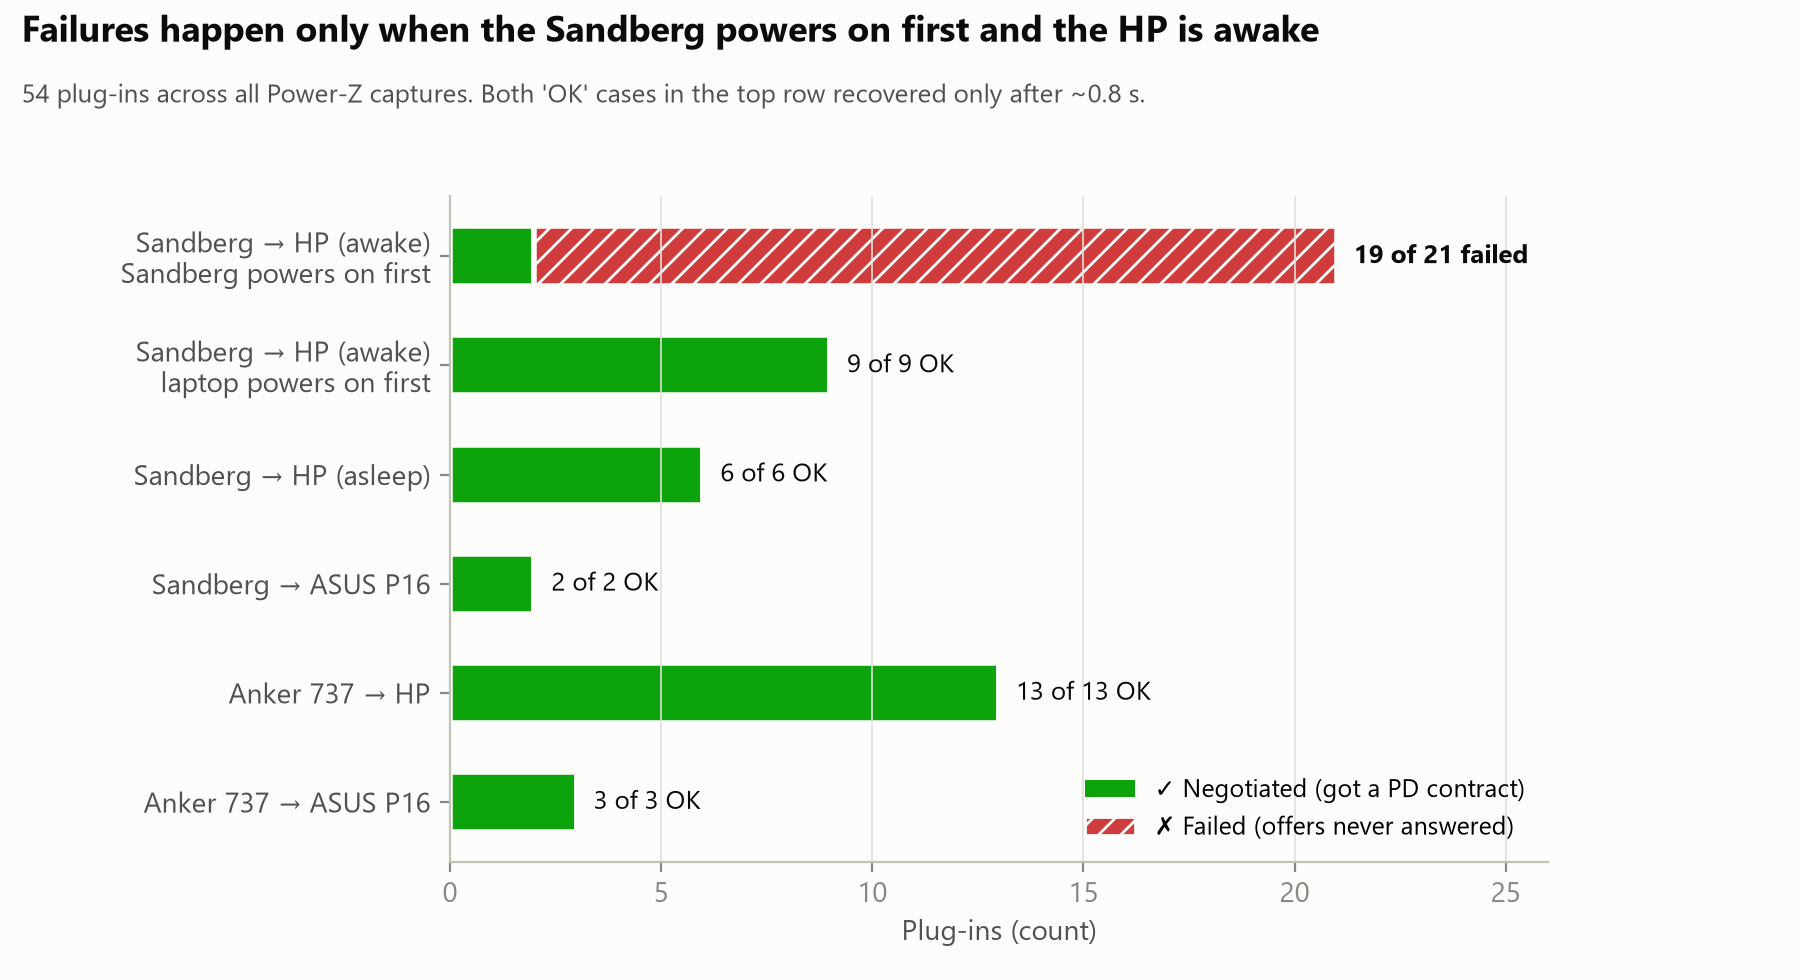
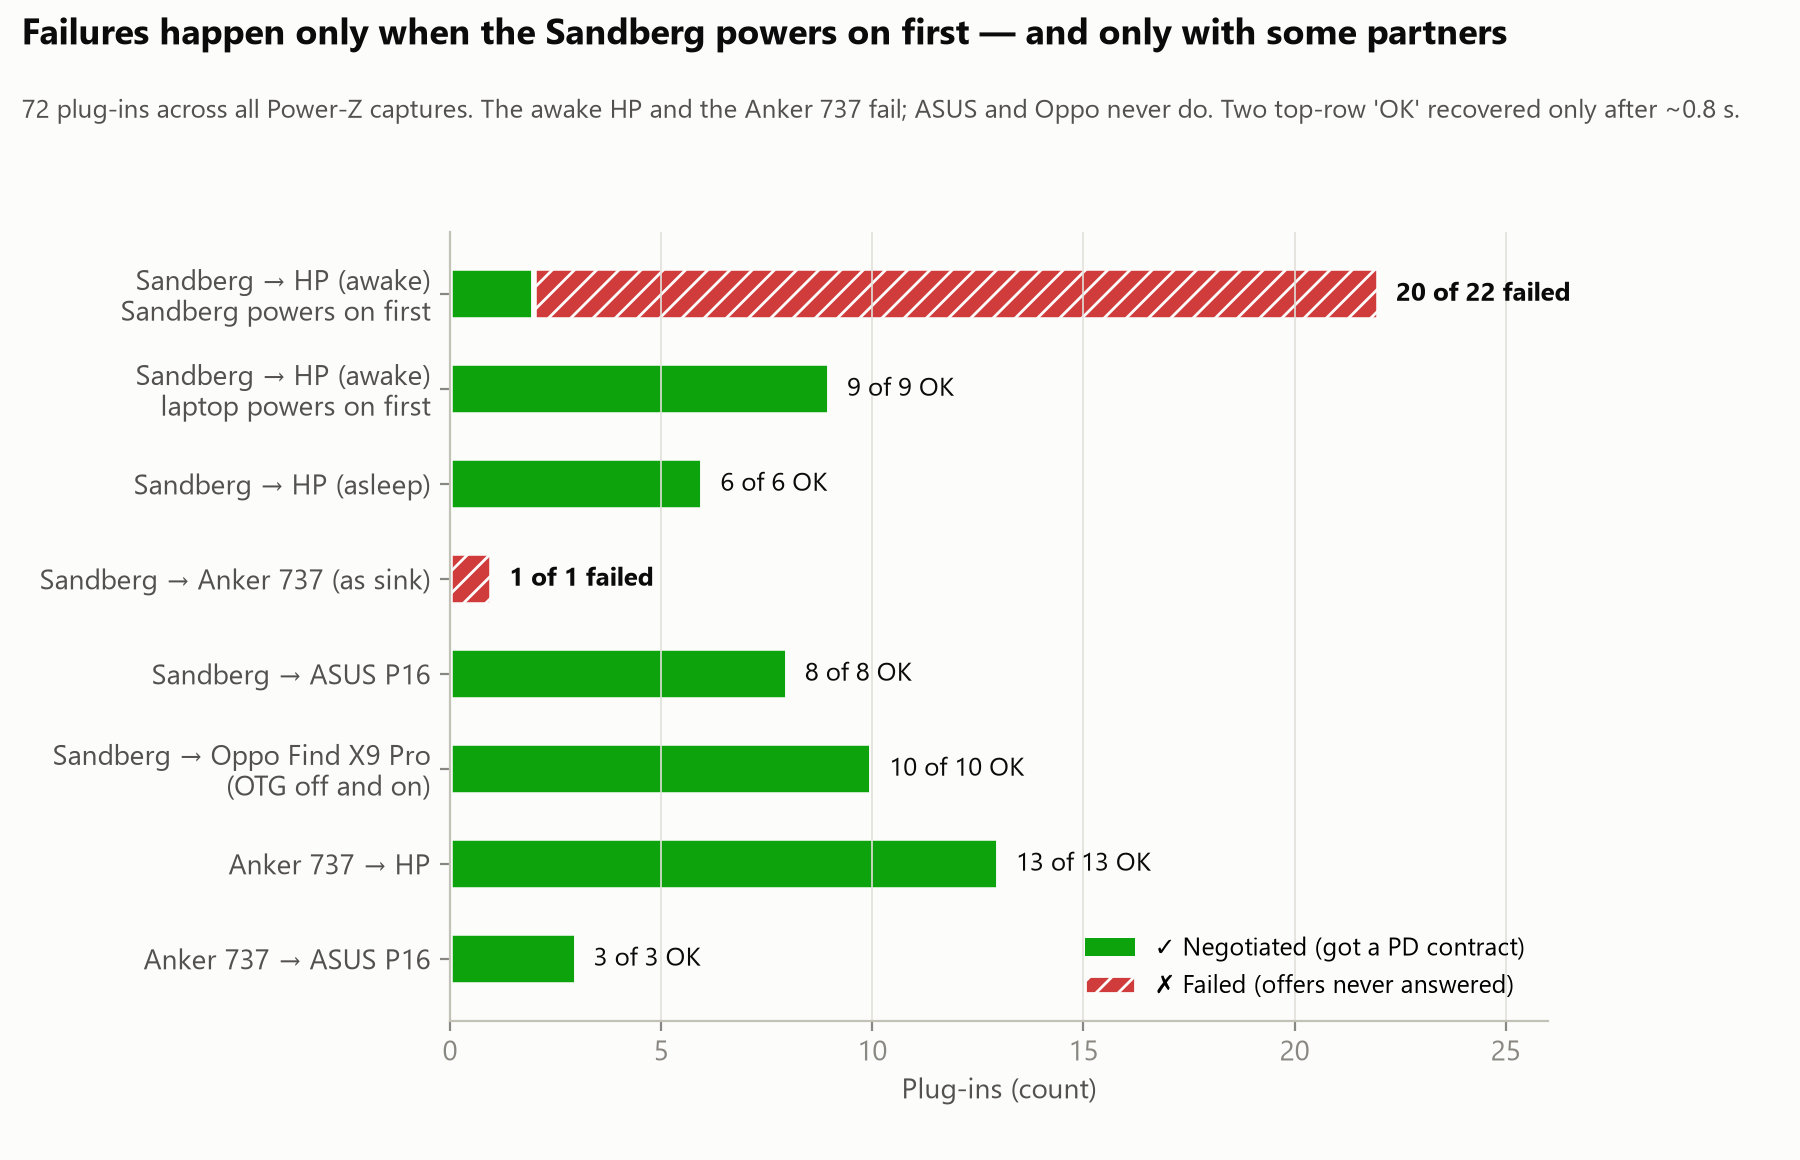
More changes to Investigation doc

diff --git a/PD_Investigation_Findings.md b/PD_Investigation_Findings.md
@@ -8,7 +8,7 @@
 1. [Summary](#1-summary)
 2. [Devices and cables](#2-devices-and-cables)
 3. [Capture index](#3-capture-index)
-4. [Finding A: intermittent negotiation failure (HP + Sandberg)](#4-finding-a-intermittent-negotiation-failure-hp--sandberg)
+4. [Finding A: intermittent negotiation failure (Sandberg + some sinks)](#4-finding-a-intermittent-negotiation-failure-sandberg--some-sinks)
 5. [Finding B: Sandberg C1 never offers more than 60 W](#5-finding-b-sandberg-c1-never-offers-more-than-60-w)
 6. [Finding C: other protocol quirks](#6-finding-c-other-protocol-quirks)
 7. [Timing and power measurements](#7-timing-and-power-measurements)
@@ -24,7 +24,7 @@ There are **two independent problems** with the Sandberg powerbank:
 
 | # | Problem | Most likely cause | Confidence |
 |---|---|---|---|
-| **A** | The HP laptop sometimes never answers the Sandberg's power offers. The Sandberg sends 50 offers (about 8.6 s), gives up and stays at 5 V with no charging | An interaction: the **HP (awake, dual-role) gets stuck** when 5 V arrives late, and the **Sandberg switches 5 V on slowly (300–440 ms)** when it starts as a fixed source | Hypothesis, strongly supported. A test is pending (section 8) |
+| **A** | When the **Sandberg powers on first**, some sinks never answer its power offers. The Sandberg sends 50 offers (about 8.6 s), gives up and stays at 5 V with no charging | It happens with the **HP (awake)** and the **Anker 737 as a sink**, never with the ASUS, the Oppo or the sleeping HP. Once it happens, the **Sandberg stays stuck even after the sink is unplugged**. Slow 5 V switch-on is **ruled out** as the sole trigger | Pattern confirmed (72 plug-ins). Exact trigger not identified |
 | **B** | The Sandberg's "100 W" port (C1) only ever offers **20 V 3 A = 60 W** | The Sandberg **never supplies VCONN**, so it can't read the cable's e-marker. Under the PD spec it must then cap at 3 A | **Confirmed by measurement** |
 
 A **third mode, on the C2 (27 W) port only**, was captured as well. The Sandberg doesn't run PD at all and outputs about 4.6 V, and the laptop falls back to slow 5 V charging (section 4.5).
@@ -89,10 +89,15 @@ All three cables answer cable-identity requests correctly whenever the requester
 | `F0KYM-HTN1-533/Sandberg3Fails1OK_PowerZ_at_C1pd.sqlite` | **Power-Z at Sandberg C1**, HP cable | Awake | 3 FAIL, 1 OK |
 | `F0KYM-HTN1-533/Sandberg3Fails1OK_PowerZ_at_C1_WorstSoFar_27Wpd.sqlite` | Power-Z at **Sandberg C2 (27 W)**, HP cable | Awake | **No PD at all.** The Sandberg outputs about 4.6 V, the laptop's 3 Hard Resets are ignored, the laptop falls back to 5 V (max 13.9 W) and re-attaches every ~10 s (section 4.5) |
 | `F0KYM-HTN1-533/Sanberg_several_retries15s_AnkerOKpd.sqlite` | Power-Z at Sandberg C1, HP cable. Laptop side unplugged, **15 s wait** before each replug. Then Anker 737 | Awake | **Sandberg 4 of 4 FAIL** (all Sandberg-first). Anker OK (laptop-first, PR_Swap, 5 A) |
+| `F0KYM-HTN1-533/HPEliteBookT2-testpd.sqlite` | **T2**: Power-Z at C1, HP cable, 15 s wait | Awake | First plug-in FAIL. The Sandberg then **stays stuck for 2 minutes** through 4 replugs (section 4.3) |
+| `F0KYM-HTN1-533/ASUSProArtP16T4-testpd.sqlite` | **T4**: Sandberg → ASUS, 15 s wait | Awake | **6 of 6 OK**, all Sandberg-first, 20 V 3 A, 55 W |
+| `F0KYM-HTN1-533/Sandberg_Charging_Anker737_T5-testpd.sqlite` | **T5**: Sandberg → Anker 737 (as sink), 15 s wait | — | First plug-in FAIL. Same stuck state as the HP, persisting through 4 replugs |
+| `F0KYM-HTN1-533/Oppo_T7-OTG-offpd.sqlite` | **T7**: Sandberg → Oppo Find X9 Pro, OTG off | — | **5 of 5 OK**. Uses the Sandberg's **PPS** (about 8.5 V 3 A, up to 26 W) |
+| `F0KYM-HTN1-533/Oppo_T7-OTG-onpd.sqlite` | **T7**: same, OTG on | — | **5 of 5 OK**. Fixed 9 V 1.5–2 A |
 
 ---
 
-## 4. Finding A: intermittent negotiation failure (HP + Sandberg)
+## 4. Finding A: intermittent negotiation failure (Sandberg + some sinks)
 
 ### 4.1 What a failure looks like
 
@@ -148,27 +153,58 @@ Both devices are **dual-role (DRP)**: each can supply or take power, and while u
 - If the cable is unplugged at the Sandberg for more than 7 s, the outcome is **always Sandberg-first, so always fail**.
 - If the cable stays attached, it's a random race.
 
-**Control observations:**
-- The **Anker 737** never triggers the stuck state. It switches 5 V on 26–46 ms after attach, in either role order.
-- The **ASUS ProArt P16**, also a dual-role laptop that cycles while awake, worked with the Sandberg as a fixed source **even with a 450 ms switch-on delay**. That's one data point so far.
-- **Below 30%:** plug-ins about 15 s apart meant the Sandberg was always fixed as source, so 5 of 6 failed.
+**Other partners, with the Sandberg forced to power on first (tests T2–T7):**
+
+| Sink | Sandberg-first plug-ins | Result | Sandberg 5 V switch-on delay |
+|---|---|---|---|
+| HP EliteBook (awake) | 22 (all captures) | **20 FAIL**, 2 late OK | 179–521 ms |
+| **Anker 737 as sink** | 1 | **FAIL**, same signature (CC 1.98 V / 0.88 V) | 179 ms |
+| ASUS ProArt P16 (awake) | 8 | **8 OK** | 220–511 ms |
+| Oppo Find X9 Pro, OTG off | 5 | **5 OK** | 179–900 ms |
+| Oppo Find X9 Pro, OTG on | 5 | **5 OK** | 890–900 ms |
+| HP EliteBook (asleep) | 6 | **6 OK** | 199–522 ms |
+
+What this shows:
+- **It isn't HP-specific:** the Anker 737 fails the same way.
+- **It isn't the delay:** the ASUS and the Oppo tolerate equal or much longer delays.
+
+**The Sandberg stays stuck after the sink is unplugged (T2, T5).** After the first failed plug-in, the Sandberg kept **VBUS at 5.14 V for the whole 2-minute capture**. It also held the communication CC line at **about 1.94–1.98 V** and its VCONN pin at **0.86–0.88 V**, even during the 15 s periods with the device unplugged and only the cable attached. A normal source in that situation reads about 3.25 V (an open pull-up), detects the detach and switches VBUS off, as it did in T4 and T7.
+- Each replug shows a 150 ms dip to about 1.52 V (the new sink's Rd) and then a return to the stuck level.
+- The Sandberg sends **no new offers after a replug**.
+- Only unplugging the cable **from the Sandberg itself** clears it.
+
+This means the faulty CC level is produced, at least in part, **by the Sandberg**, not only by the sink.
+
+*Caveat: this assumes the device end was unplugged during the 15 s waits, as in the procedure.*
+
+**Below 30%:** plug-ins about 15 s apart meant the Sandberg was always fixed as source, so 5 of 6 failed.
 
 ### 4.4 Working hypothesis
 
-> The HP EliteBook 840 G11's USB-C port, while awake and cycling as a dual-role port, mishandles **late** VBUS arrival. If the source takes several hundred ms to switch VBUS on after attach (still within the spec, which allows about 475 ms), the HP moves into a source-like state (Rp on both CC pins) and never runs its PD receiver as a sink. The Sandberg is a reliable trigger, because it is slow as a fixed source, it doesn't recover, and it never Hard Resets.
+> **Revised after tests T2–T7.** When the Sandberg powers on first, its CC interface sometimes enters a faulty state at the moment it switches VBUS on:
+> - the communication CC line sits at about **1.95–2.0 V**;
+> - its VCONN pin sits at about **0.86 V**;
+> - no sink acknowledges its PD messages;
+> - it no longer detects detach, so VBUS stays on with nothing attached.
+>
+> Whether it enters this state depends on the partner. The **awake HP** and the **Anker 737** trigger it; the **ASUS**, the **Oppo** and the **sleeping HP** don't.
+>
+> The earlier "HP mishandles late VBUS" idea is **not supported**: the Anker fails too, and the ASUS and Oppo tolerate equal or longer delays.
 
-Supporting:
-- every observed condition fits;
-- the ASUS tolerates the same delay;
-- the HP's own adapter and the Anker are fast.
+Consistent with the data, though not proven:
+- **The partners that trigger it** (HP awake, Anker 737) are devices that also like to be a power source. While awake the HP cycles between offering and taking power, and the Anker as a powerbank is the same. During the Sandberg's attach they may briefly present a source pull-up (Rp), which seems to throw the Sandberg into the faulty state. On the HP side, an Rp was seen on the laptop's VCONN pin during failures (0.55 V).
+- **The faulty levels fit a simple model:** both of the Sandberg's CC pins pulled to about 1.95 V through about 1.3 kΩ, instead of a normal 330 µA Rp. That predicts:
+  - 1.95 V with nothing attached (measured 1.94 V);
+  - about 0.86 V into the cable's Ra (measured 0.86 V);
+  - about 1.55 V with only a sink's Rd (measured 1.52 V at the moment of replug).
 
-Not yet proven:
-- the threshold delay;
-- whether the newer EliteBook a second tester uses is immune because of different firmware or a different PD controller, or because of a different plug-in pattern.
+Not yet known:
+- why the ASUS and the Oppo (even with OTG on) don't trigger it;
+- whether the Sandberg's malformed CC level is also why sinks can't decode its messages.
 
 ![Switch-on delay vs outcome](charts/03_switch_on_delay.png)
 
-*Delay from the laptop settling as a sink to 5 V switch-on, for plug-ins where the powerbank powered on first. The awake HP is the only combination that fails, and only the Sandberg is slow. This is a correlation; tests 8.2 (T4–T7) are meant to separate cause from coincidence.*
+*Delay from the sink settling to 5 V switch-on, for plug-ins where the powerbank powered on first. The ASUS and the Oppo negotiate fine with the Sandberg at the same or longer delays, so the slow switch-on is not the trigger on its own.*
 
 ### 4.5 Second failure mode: the Sandberg's PD engine is silent
 
@@ -194,8 +230,8 @@ after ~9 s the laptop detaches, re-attaches ~3 s later → loop
 ### 4.6 Workarounds
 
 - Plug in while the laptop is **asleep**, then wake it. This is the only reliable workaround: 9 of 9 OK.
-- Keep the cable attached to the Sandberg and replug only at the laptop. Each attempt is then a race the laptop sometimes wins.
-- If it fails, unplug at the laptop and try again.
+- With the cable kept in the Sandberg, replugging at the laptop is a race the laptop sometimes wins. This only works if the previous attempt didn't leave the Sandberg stuck.
+- If it fails, **unplug the cable from the Sandberg** (not just the laptop end): the Sandberg stays stuck otherwise. Then try again.
 
 ---
 
@@ -293,7 +329,7 @@ Searches in English and Nordic languages found **no** reviews or forum reports o
 | Test | Steps | Prediction if the hypothesis is right |
 |---|---|---|
 | T1 | HP awake. Unplug **at the Sandberg**, **wait 2 s**, replug. Repeat 5× | Mixed: OK only when the laptop wins the race to source |
-| T2 | HP awake. Unplug, **wait 15 s**, replug. Repeat 5× | **Done:** 4 of 4 FAIL (unplugged at the laptop side; all Sandberg-first) |
+| T2 | HP awake. Unplug, **wait 15 s**, replug. Repeat 5× | **Done (twice):** 4 of 4 FAIL; then FAIL, after which the Sandberg stayed stuck through 4 replugs |
 | T2b | Like T2, but unplug **at the Sandberg** (forces Sandberg-first) | All FAIL |
 | T3 | Like T2, but with the HP asleep | All OK |
 
@@ -301,10 +337,11 @@ Searches in English and Nordic languages found **no** reviews or forum reports o
 
 | Test | Steps | What it shows |
 |---|---|---|
-| T4 | **ASUS ProArt P16** awake, T2 procedure (wait 15 s) × 5, Power-Z recording | If all OK, a dual-role laptop tolerates the Sandberg's slow switch-on, which points at the HP |
-| T5 | **Sandberg C1 → Anker 737** (Anker as the sink), T2 procedure × 5 | Same question with a dual-role powerbank. Check which device ends up as source |
+| T4 | **ASUS ProArt P16** awake, T2 procedure (wait 15 s) × 5, Power-Z recording | **Done: 6 of 6 OK** (Sandberg-first, 220–511 ms delays) |
+| T5 | **Sandberg C1 → Anker 737** (Anker as the sink), T2 procedure × 5 | **Done: FAIL**, then the Sandberg stayed stuck through 4 replugs. **So it isn't HP-specific** |
+| T5b | Repeat T5 and T2, but unplug **the cable from the Sandberg** between attempts, so each attempt starts fresh | Gets 5 independent data points per partner |
 | T6 | HP + Anker 737, with the Anker as a fixed source (wait 15 s) | Already OK in the captures. Repeat to rule out chance |
-| T7 | **Oppo Find X9 Pro** + Sandberg C1, T2 procedure (wait 15 s) × 5. Once with **OTG off** and once with **OTG on** (phones usually only cycle as dual-role with OTG on) | A third sink. OTG off = sink-only control, OTG on = dual-role. Also shows whether the Sandberg's PPS works. Note: Oppo's "100 W" is most likely its proprietary SUPERVOOC, so standard PD/PPS will probably negotiate much less, and this test can't check the 100 W / 5 A issue |
+| T7 | **Oppo Find X9 Pro** + Sandberg C1, T2 procedure (wait 15 s) × 5. Once with **OTG off** and once with **OTG on** | **Done: 5 of 5 OK each.** The Sandberg's PPS works (about 8.5 V 3 A, 26 W, OTG off). OTG on used fixed 9 V |
 
 ### 8.3 Laptop side
 
